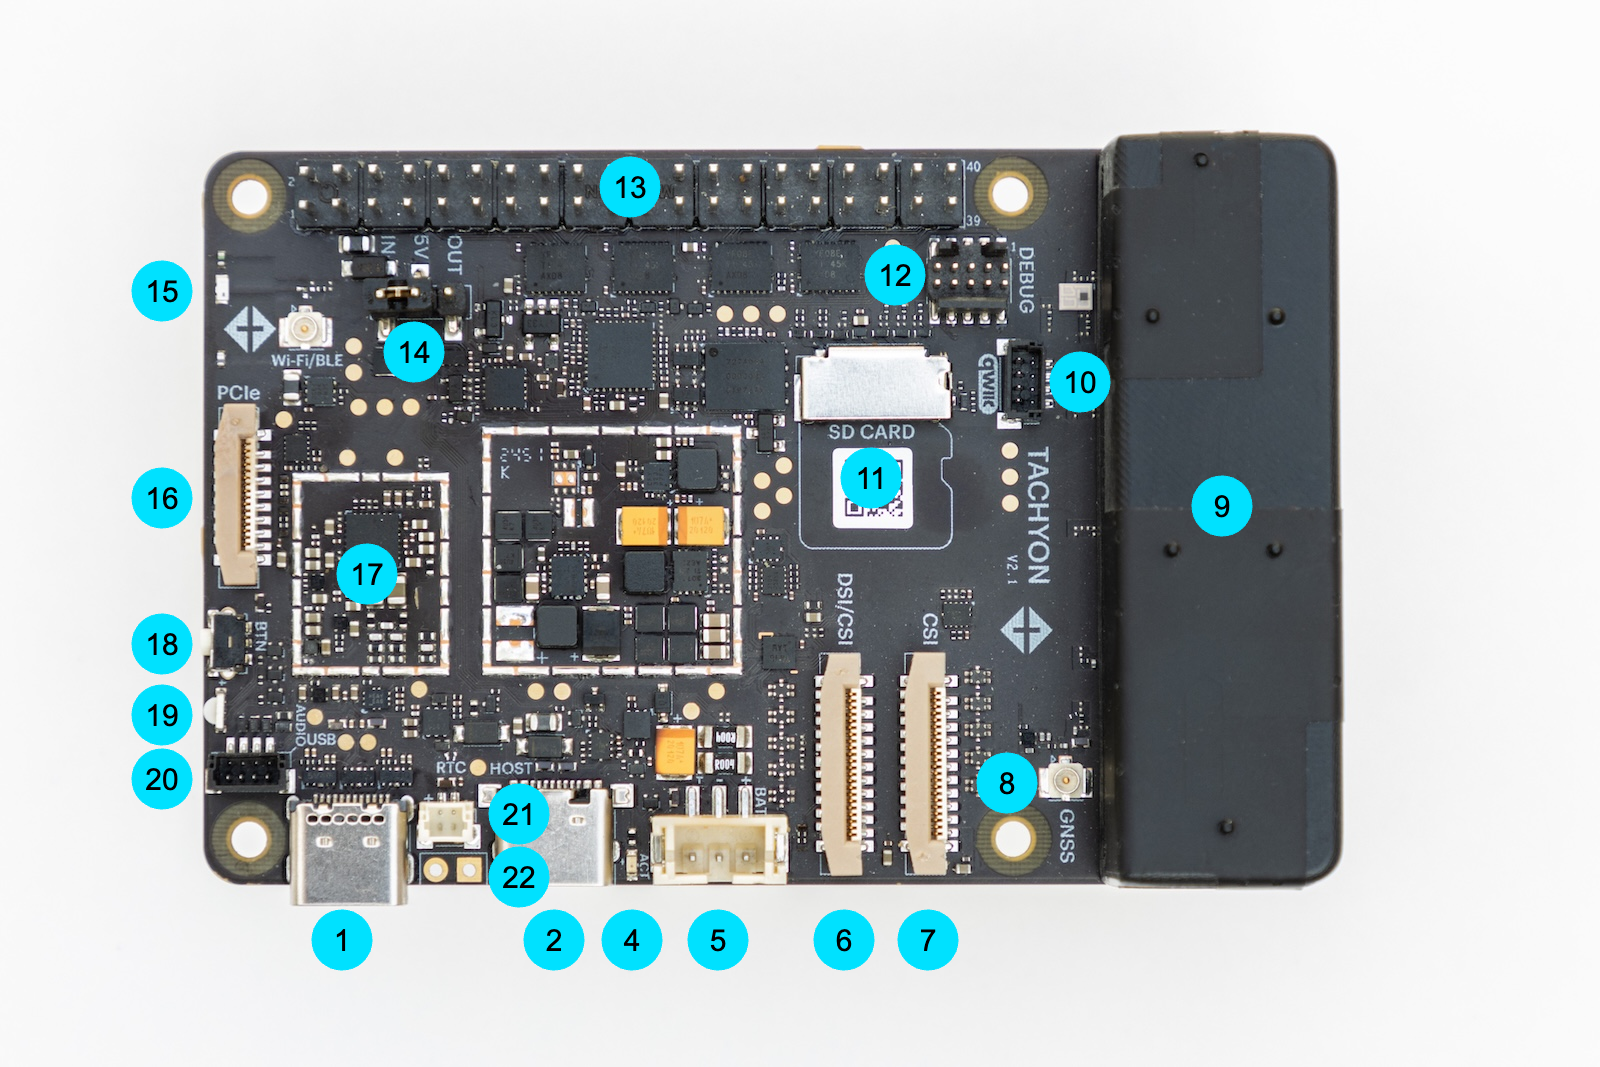
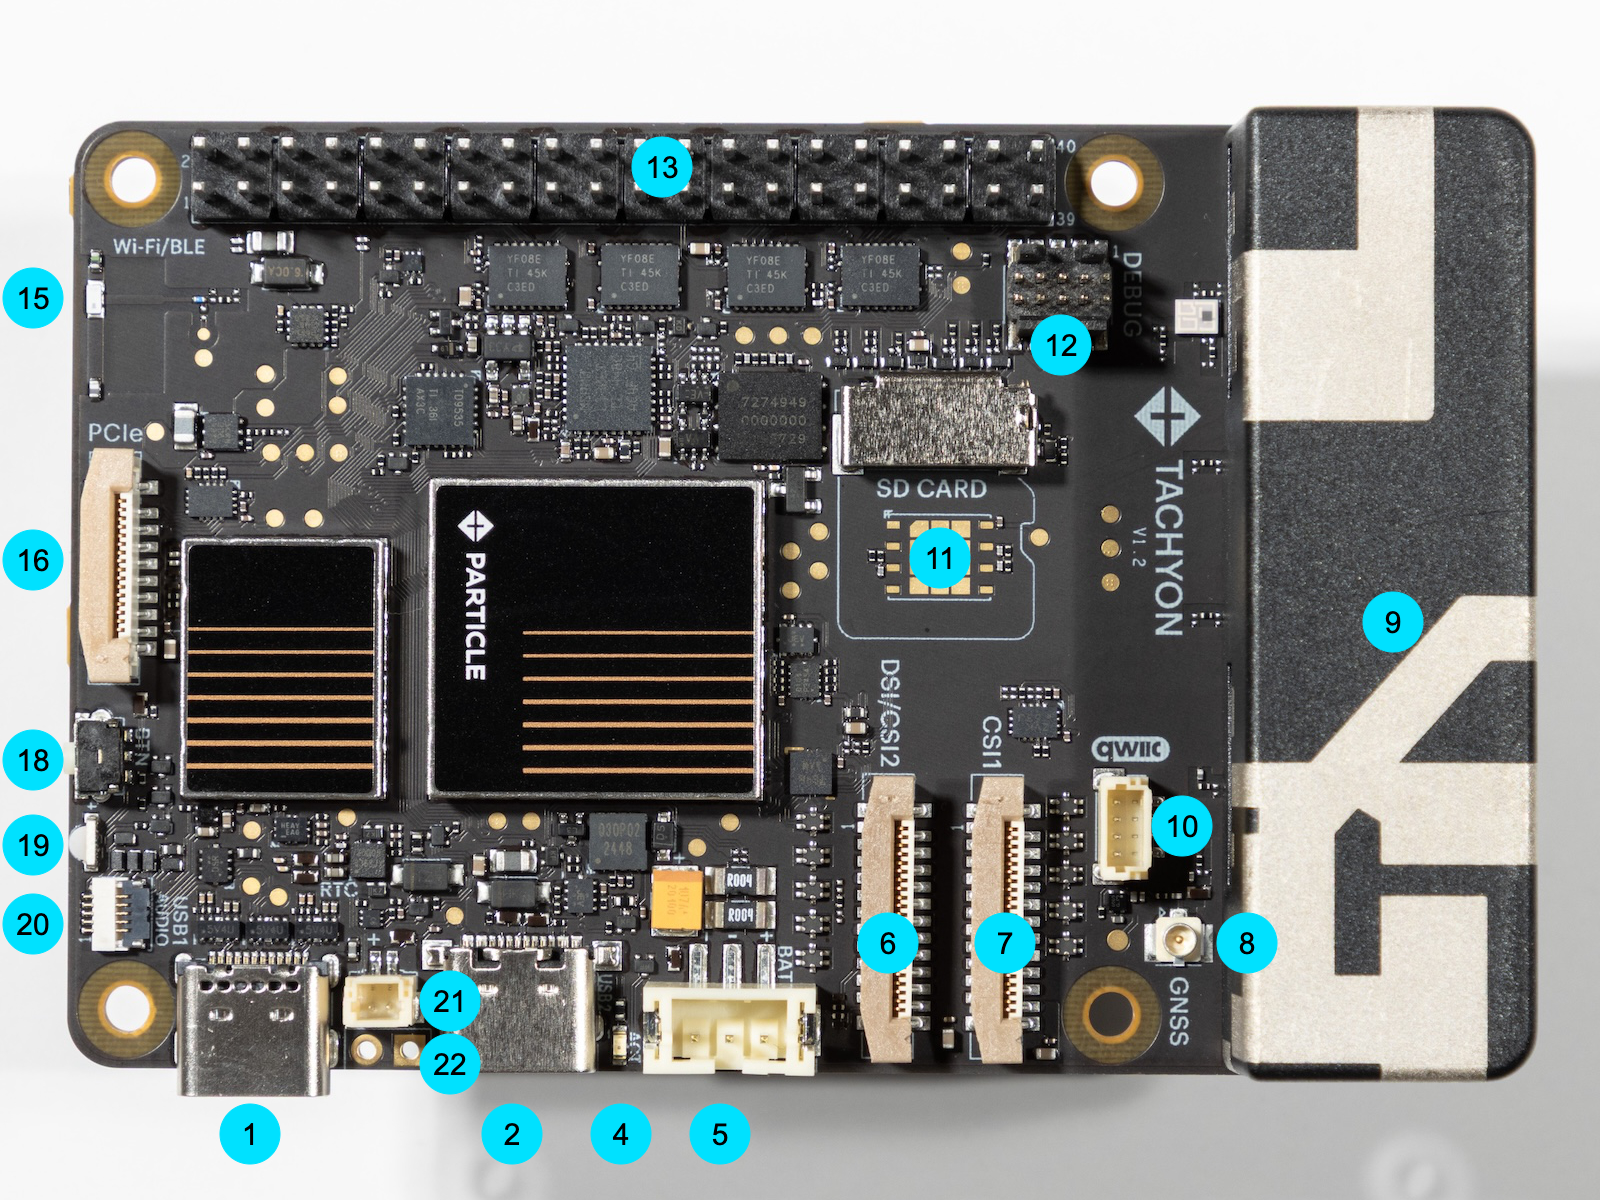
Tachyon datasheet photo update

diff --git a/src/content/reference/datasheets/tachyon/tachyon-datasheet.md b/src/content/reference/datasheets/tachyon/tachyon-datasheet.md
@@ -4,12 +4,21 @@ columns: two
 layout: commonTwo.hbs
 description: Tachyon Datasheet
 ---
+---
+title: Tachyon Datasheet
+columns: two
+layout: commonTwo.hbs
+description: Tachyon Datasheet
+---
 
 # Tachyon Datasheet
 
 {{box op="start" cssClass="boxed warningBox"}}
 This is a preliminary datasheet and is subject to change.
 {{box op="end"}}
+
+{{imageOverlay src="/assets/images/tachyon/tachyon-iso.jpg" alt="Tachyon Photo"}}
+
 
 ## Overview
 
@@ -139,10 +148,8 @@ Power can be supplied by:
 | 11 | SD card (optional) | <!-- sd -->
 | 12 | Debug connector (optional) | <!-- debug-connector -->
 | 13 | Raspberry Pi 40-pin expansion HAT connector | <!-- hat -->
-| 14 | HAT 5V power direction jumper | <!-- hat-power-jumper -->
 | 15 | Wi-Fi chip antenna | <!-- wifi-antenna -->
 | 16 | PCIe expansion connector | <!-- pcie -->
-| 17 | Device info (serial number data matrix code)  | <!-- device-info -->
 | 18 | Button (power and mode) | <!-- button -->
 | 19 | Primary LED | <!-- primary-led -->
 | 20 | Audio card connector  | <!-- audio-connector -->
@@ -244,22 +251,6 @@ This connectors attaches to the debug adapter using a 10-pin (2x5) ribbon cable.
 - UART serial
 - All GPIO are 3.3V only (not 5V tolerant outside of the 5V power pin)
 
-### <!-- shared-diagram-label top-diagram hat-power-jumper title-label-paren -->HAT 5V power direction jumper (14)<!-- end -->
-
-Use the jumper to connect either `IN` or `OUT` to the center `5V` pin.
-
-- `IN` means 5V is into the HAT, from the Tachyon.
-- `OUT` means the HAT outputs power to power the Tachyon.
-
-When in `IN` mode:
-
-- 5V is not powered when in standby mode.
-- 5V can be used even when powered only by LiPo battery.
-
-When in `OUT` mode:
-
-- Supply 5V at 2A to power the Tachyon to the 5V and GND pins on the 40-pin HAT connector.
-
 ### <!-- shared-diagram-label top-diagram wifi-antenna title-label-paren -->Wi-Fi chip antenna (15)<!-- end -->
 
 - Dual-band Wi-Fi and BLE chip antenna.
@@ -272,11 +263,6 @@ Alpha versions of the Tachyon have a U.FL connector marked **Wi-Fi/BLE**. This c
 - PCIe 3.0 x1 slot
 - Matches the Raspberry Pi PCIe implementation.
 - 2-lane PCIe Gen 3, supports NVMe
-
-### <!-- shared-diagram-label top-diagram device-info title-label-paren -->Device info (serial number data matrix code)  (17)<!-- end -->
-
-- This data matrix code contains the serial number
-- The serial number is also printed as numbers and letters on the bottom side label.
 
 ### <!-- shared-diagram-label top-diagram button title-label-paren -->Button (power and mode) (18)<!-- end -->
 
@@ -863,3 +849,4 @@ some cases, the device may only be compatible with some carriers, or some bands.
 | Revision | Date | Author | Comments |
 |:---------|:-----|:-------|:---------|
 | pre      | 2025-03-03 | RK | Initial version |
+|          | 2025-06-09 | RK | Updated photo |
